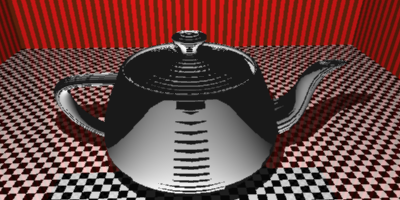
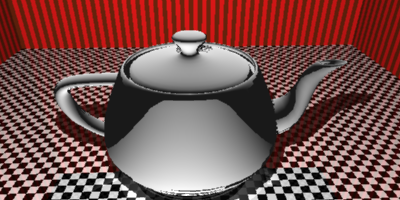
#21: texture coordinates from obj files are now being parsed and stored

diff --git a/obj/obj_parser.go b/obj/obj_parser.go
@@ -14,20 +14,23 @@ const VERTEX_PREFIX = "v "
 const FACE_PREFIX = "f "
 const GROUP_PREFIX = "g "
 const NORMAL_PREFIX = "vn "
+const TEXTURE_PREFIX = "vt "
 
 var currentGroup *ObjGroup
 
 type ObjData struct {
-	Vertices     []math.Point
-	Faces        []*Face
-	Normals      []math.Vector
-	Groups       []*ObjGroup
-	IgnoredLines int
+	Vertices           []math.Point
+	Faces              []*Face
+	Normals            []math.Vector
+	TextureCoordinates []math.Point
+	Groups             []*ObjGroup
+	IgnoredLines       int
 }
 
 type Face struct {
-	VertIndices   []int
-	NormalIndices []int
+	VertIndices    []int
+	TextureIndices []int
+	NormalIndices  []int
 }
 
 type ObjGroup struct {
@@ -42,6 +45,10 @@ func (o *ObjData) GetN(index int) math.Vector {
 	return o.Normals[index-1]
 }
 
+func (o *ObjData) GetT(index int) math.Vector {
+	return o.TextureCoordinates[index-1]
+}
+
 func CreateObjData() *ObjData {
 	return &ObjData{
 		Vertices:     make([]math.Point, 0, 300),
@@ -54,8 +61,9 @@ func CreateObjData() *ObjData {
 
 func CreateFace(cap int) *Face {
 	return &Face{
-		VertIndices:   make([]int, 0, cap),
-		NormalIndices: make([]int, 0, cap),
+		VertIndices:    make([]int, 0, cap),
+		TextureIndices: make([]int, 0, cap),
+		NormalIndices:  make([]int, 0, cap),
 	}
 }
 
@@ -70,6 +78,7 @@ func (o *ObjData) PrintStats() {
 	fmt.Printf("Vertices: %v\n", len(o.Vertices))
 	fmt.Printf("Faces(root): %v\n", len(o.Faces))
 	fmt.Printf("Normals: %v\n", len(o.Normals))
+	fmt.Printf("Texture Coordinates: %v\n", len(o.TextureCoordinates))
 	fmt.Printf("Groups: %v\n", len(o.Groups))
 	fmt.Printf("Bounds:\n")
 	fmt.Printf("\tMin: %v\n", objBounds.Minimum.ToString())
@@ -78,7 +87,7 @@ func (o *ObjData) PrintStats() {
 
 func (o *ObjData) ToGroup(preCalcBB bool) *geometry.Group {
 	root := geometry.EmptyGroup()
-	root.GetMaterial().SetShininess(50.0)
+	root.GetMaterial().SetShininess(50.0) // ???
 
 	for _, face := range o.Faces {
 		for _, t := range face.ToTriangles(o) {
@@ -110,14 +119,20 @@ func (f *Face) ToTriangles(o *ObjData) []*geometry.Triangle {
 		p2 := o.GetV(f.VertIndices[i])
 		p3 := o.GetV(f.VertIndices[i+1])
 
-		if len(f.NormalIndices) == 0 {
-			triangles = append(triangles, geometry.CreateTriangle(p1, p2, p3))
-		} else {
+		triangle := geometry.CreateTriangle(p1, p2, p3)
+		if len(f.NormalIndices) > 0 {
 			n1 := o.GetN(f.NormalIndices[0])
 			n2 := o.GetN(f.NormalIndices[i])
 			n3 := o.GetN(f.NormalIndices[i+1])
-			triangles = append(triangles, geometry.CreateSmoothTriangle(p1, p2, p3, n1, n2, n3))
+			triangle.AddSmoothingInformation(n1, n2, n3)
 		}
+		if len(f.TextureIndices) > 0 {
+			t1 := o.GetT(f.TextureIndices[0])
+			t2 := o.GetT(f.TextureIndices[i])
+			t3 := o.GetT(f.TextureIndices[i+1])
+			triangle.AddTextureInformation(t1, t2, t3)
+		}
+		triangles = append(triangles, triangle)
 	}
 	return triangles
 }
@@ -148,6 +163,8 @@ func ParseLine(objData *ObjData, line *string) {
 		processFace(objData, line, currentGroup)
 	} else if strings.HasPrefix(*line, NORMAL_PREFIX) {
 		processNormal(objData, line)
+	} else if strings.HasPrefix(*line, TEXTURE_PREFIX) {
+		processTextureCoordinates(objData, line)
 	} else if strings.HasPrefix(*line, GROUP_PREFIX) {
 		currentGroup = CreateObjGroup()
 		objData.Groups = append(objData.Groups, currentGroup)
@@ -175,8 +192,11 @@ func processFace(objData *ObjData, line *string, currentGroup *ObjGroup) {
 		if index == 0 {
 			continue
 		}
-		vertexIndex, normalIndex := extractVertexAndNormalIndex(faceComponents[index])
+		vertexIndex, textureIndex, normalIndex := extractFaceIndices(faceComponents[index])
 		face.VertIndices = append(face.VertIndices, vertexIndex)
+		if textureIndex != -1 {
+			face.TextureIndices = append(face.TextureIndices, textureIndex)
+		}
 		if normalIndex != -1 {
 			face.NormalIndices = append(face.NormalIndices, normalIndex)
 		}
@@ -189,20 +209,40 @@ func processFace(objData *ObjData, line *string, currentGroup *ObjGroup) {
 	}
 }
 
+func processTextureCoordinates(objData *ObjData, line *string) {
+	textureComponents := strings.Split(*line, " ")
+	textureComponents = slices.DeleteFunc(textureComponents, isEmptyString)
+	// only u is mandatory, v and w default to 0
+	textureU := getStringAsFloat(textureComponents[1])
+	textureV := 0.0
+	textureW := 0.0
+	if len(textureComponents) > 2 {
+		textureV = getStringAsFloat(textureComponents[2])
+	}
+	if len(textureComponents) > 3 {
+		textureW = getStringAsFloat(textureComponents[3])
+	}
+
+	objData.TextureCoordinates = append(objData.TextureCoordinates, math.CreatePoint(textureU, textureV, textureW))
+}
+
 // input => 1/3/5
-func extractVertexAndNormalIndex(face string) (int, int) {
+func extractFaceIndices(face string) (int, int, int) {
 	// face format: vertexIndex/textureIndex/vertexNormal
 	indices := strings.Split(face, "/")
 	vertexIndex := -1
+	textureIndex := -1
 	normalIndex := -1
 	for i, stringIndex := range indices {
 		if i == 0 {
 			vertexIndex, _ = strconv.Atoi(stringIndex)
+		} else if i == 1 && stringIndex != "" {
+			textureIndex, _ = strconv.Atoi(stringIndex)
 		} else if i == 2 {
 			normalIndex, _ = strconv.Atoi(stringIndex)
 		}
 	}
-	return vertexIndex, normalIndex
+	return vertexIndex, textureIndex, normalIndex
 }
 
 func isEmptyString(s string) bool {

diff --git a/obj/obj_parser_test.go b/obj/obj_parser_test.go
@@ -105,6 +105,12 @@ vn 0.0 0.0 0.0
 vn 0.0 0.0 0.0
 vn 0.0 0.0 0.0
 
+vt 1.0 1.0 1.0
+vt 1.0 1.0 1.0
+vt 1.0 2.0 3.0
+vt 9.9 1.1
+vt 1.0
+
 f 1/2/3 2/3/4 3/4/5
 f 1/2/3 3/4/5 4/5/6
 `
@@ -113,7 +119,7 @@ f 1/2/3 3/4/5 4/5/6
 
 	assert.Assert(t, len(objData.Vertices) == 4)
 	assert.Assert(t, len(objData.Faces) == 2)
-	assert.Assert(t, objData.IgnoredLines == 4)
+	assert.Assert(t, objData.IgnoredLines == 5)
 
 	object := objData.ToGroup(false)
 
@@ -138,15 +144,20 @@ vn -1.0 0.0 0.0
 vn 1.0 0.0 0.0
 vn 0.0 1.0 0.0
 
+vt 1.0 1.0 1.0
+vt 1.0 2.0 3.0
+vt 9.9 1.1
+vt 1.0
+
 f 1//3 2//1 3//2
-f 1/0/3 2/102/1 3/14/2
+f 1/1/3 2/3/1 3/4/2
 `
 	objData := CreateObjData()
 	ParseData(objData, input)
 
 	assert.Assert(t, len(objData.Vertices) == 3)
 	assert.Assert(t, len(objData.Faces) == 2)
-	assert.Assert(t, objData.IgnoredLines == 4)
+	assert.Assert(t, objData.IgnoredLines == 5)
 
 	object := objData.ToGroup(false)
 
@@ -252,4 +263,29 @@ vn 1 2 3
 	assert.Assert(t, objData.GetN(1).Equals(expected1))
 	assert.Assert(t, objData.GetN(2).Equals(expected2))
 	assert.Assert(t, objData.GetN(3).Equals(expected3))
+}
+
+func TestTextureCoordinates(t *testing.T) {
+	input := `
+vt 0 0 1
+vt 0.707 0 -0.707
+vt 1 2 3
+vt 1.2 2.1
+vt 2.5
+`
+	expected1 := math.CreatePoint(0.0, 0.0, 1.0)
+	expected2 := math.CreatePoint(0.707, 0.0, -0.707)
+	expected3 := math.CreatePoint(1.0, 2.0, 3.0)
+	expected4 := math.CreatePoint(1.2, 2.1, 0.0)
+	expected5 := math.CreatePoint(2.5, 0.0, 0.0)
+
+	objData := CreateObjData()
+	ParseData(objData, input)
+
+	assert.Assert(t, len(objData.TextureCoordinates) == 5)
+	assert.Assert(t, objData.GetT(1).Equals(expected1))
+	assert.Assert(t, objData.GetT(2).Equals(expected2))
+	assert.Assert(t, objData.GetT(3).Equals(expected3))
+	assert.Assert(t, objData.GetT(4).Equals(expected4))
+	assert.Assert(t, objData.GetT(5).Equals(expected5))
 }

diff --git a/geometry/triangle.go b/geometry/triangle.go
@@ -5,7 +5,6 @@ import (
 	gomath "math"
 	"raygo/math"
 	"reflect"
-	"sync"
 
 	"github.com/google/uuid"
 )
@@ -23,12 +22,16 @@ type Triangle struct {
 	Parent           *Group
 	CachedBounds     *Bounds
 	InverseTransform math.Matrix
-	mu               sync.Mutex
 	// smooth triangle fields
 	N1     math.Vector
 	N2     math.Vector
 	N3     math.Vector
 	Smooth bool
+	// texture information
+	T1         math.Point
+	T2         math.Point
+	T3         math.Point
+	HasTexture bool
 }
 
 func CreateTriangle(p1 math.Point, p2 math.Point, p3 math.Point) *Triangle {
@@ -47,6 +50,7 @@ func CreateTriangle(p1 math.Point, p2 math.Point, p3 math.Point) *Triangle {
 		Parent:       nil,
 		CachedBounds: nil,
 		Smooth:       false,
+		HasTexture:   false,
 	}
 }
 
@@ -66,11 +70,26 @@ func CreateSmoothTriangle(p1 math.Point, p2 math.Point, p3 math.Point,
 		Material:     DefaultMaterial(),
 		Parent:       nil,
 		CachedBounds: nil,
+		HasTexture:   false,
 		Smooth:       true,
 		N1:           n1,
 		N2:           n2,
 		N3:           n3,
 	}
+}
+
+func (t *Triangle) AddTextureInformation(t1 math.Point, t2 math.Point, t3 math.Point) {
+	t.T1 = t1
+	t.T2 = t2
+	t.T3 = t3
+	t.HasTexture = true
+}
+
+func (t *Triangle) AddSmoothingInformation(n1 math.Vector, n2 math.Vector, n3 math.Vector) {
+	t.N1 = n1
+	t.N2 = n2
+	t.N3 = n3
+	t.Smooth = true
 }
 
 func (t *Triangle) Equals(other Shape) bool {
@@ -123,9 +142,8 @@ func (t *Triangle) GetMaterial() *Material {
 func (t *Triangle) NormalAt(p math.Point, hit Intersection) math.Vector {
 	if t.Smooth {
 		return t.localTriangleNormalAt(hit).Normalize()
-	} else {
-		return t.Normal
 	}
+	return t.Normal
 }
 
 func (t *Triangle) localTriangleNormalAt(hit Intersection) math.Vector {

diff --git a/scene/world.go b/scene/world.go
@@ -103,7 +103,7 @@ func (w *World) IsShadowed(p math.Point) bool {
 	xs := w.Intersect(r)
 
 	h := g.Hit(xs)
-	return h != nil && h.IntersectionAt < distance
+	return h != nil && h.IntersectionAt > math.EPSILON && h.IntersectionAt < distance
 }
 
 func (w *World) ReflectedColor(precomps g.IntersectionComputations, remainingReflections int) math.Color {

diff --git a/app/app_test.go b/app/app_test.go
@@ -1,5 +1,7 @@
 package app
 
-//func TestRun(t *testing.T) {
-//	Run([]string{"-f", "../local/cube-texture.yaml", "-o", "cube"})
-//}
+import "testing"
+
+func TestRun(t *testing.T) {
+	Run([]string{"-f", "../local/penguin-scene.yaml", "-o", "penguin"})
+}
